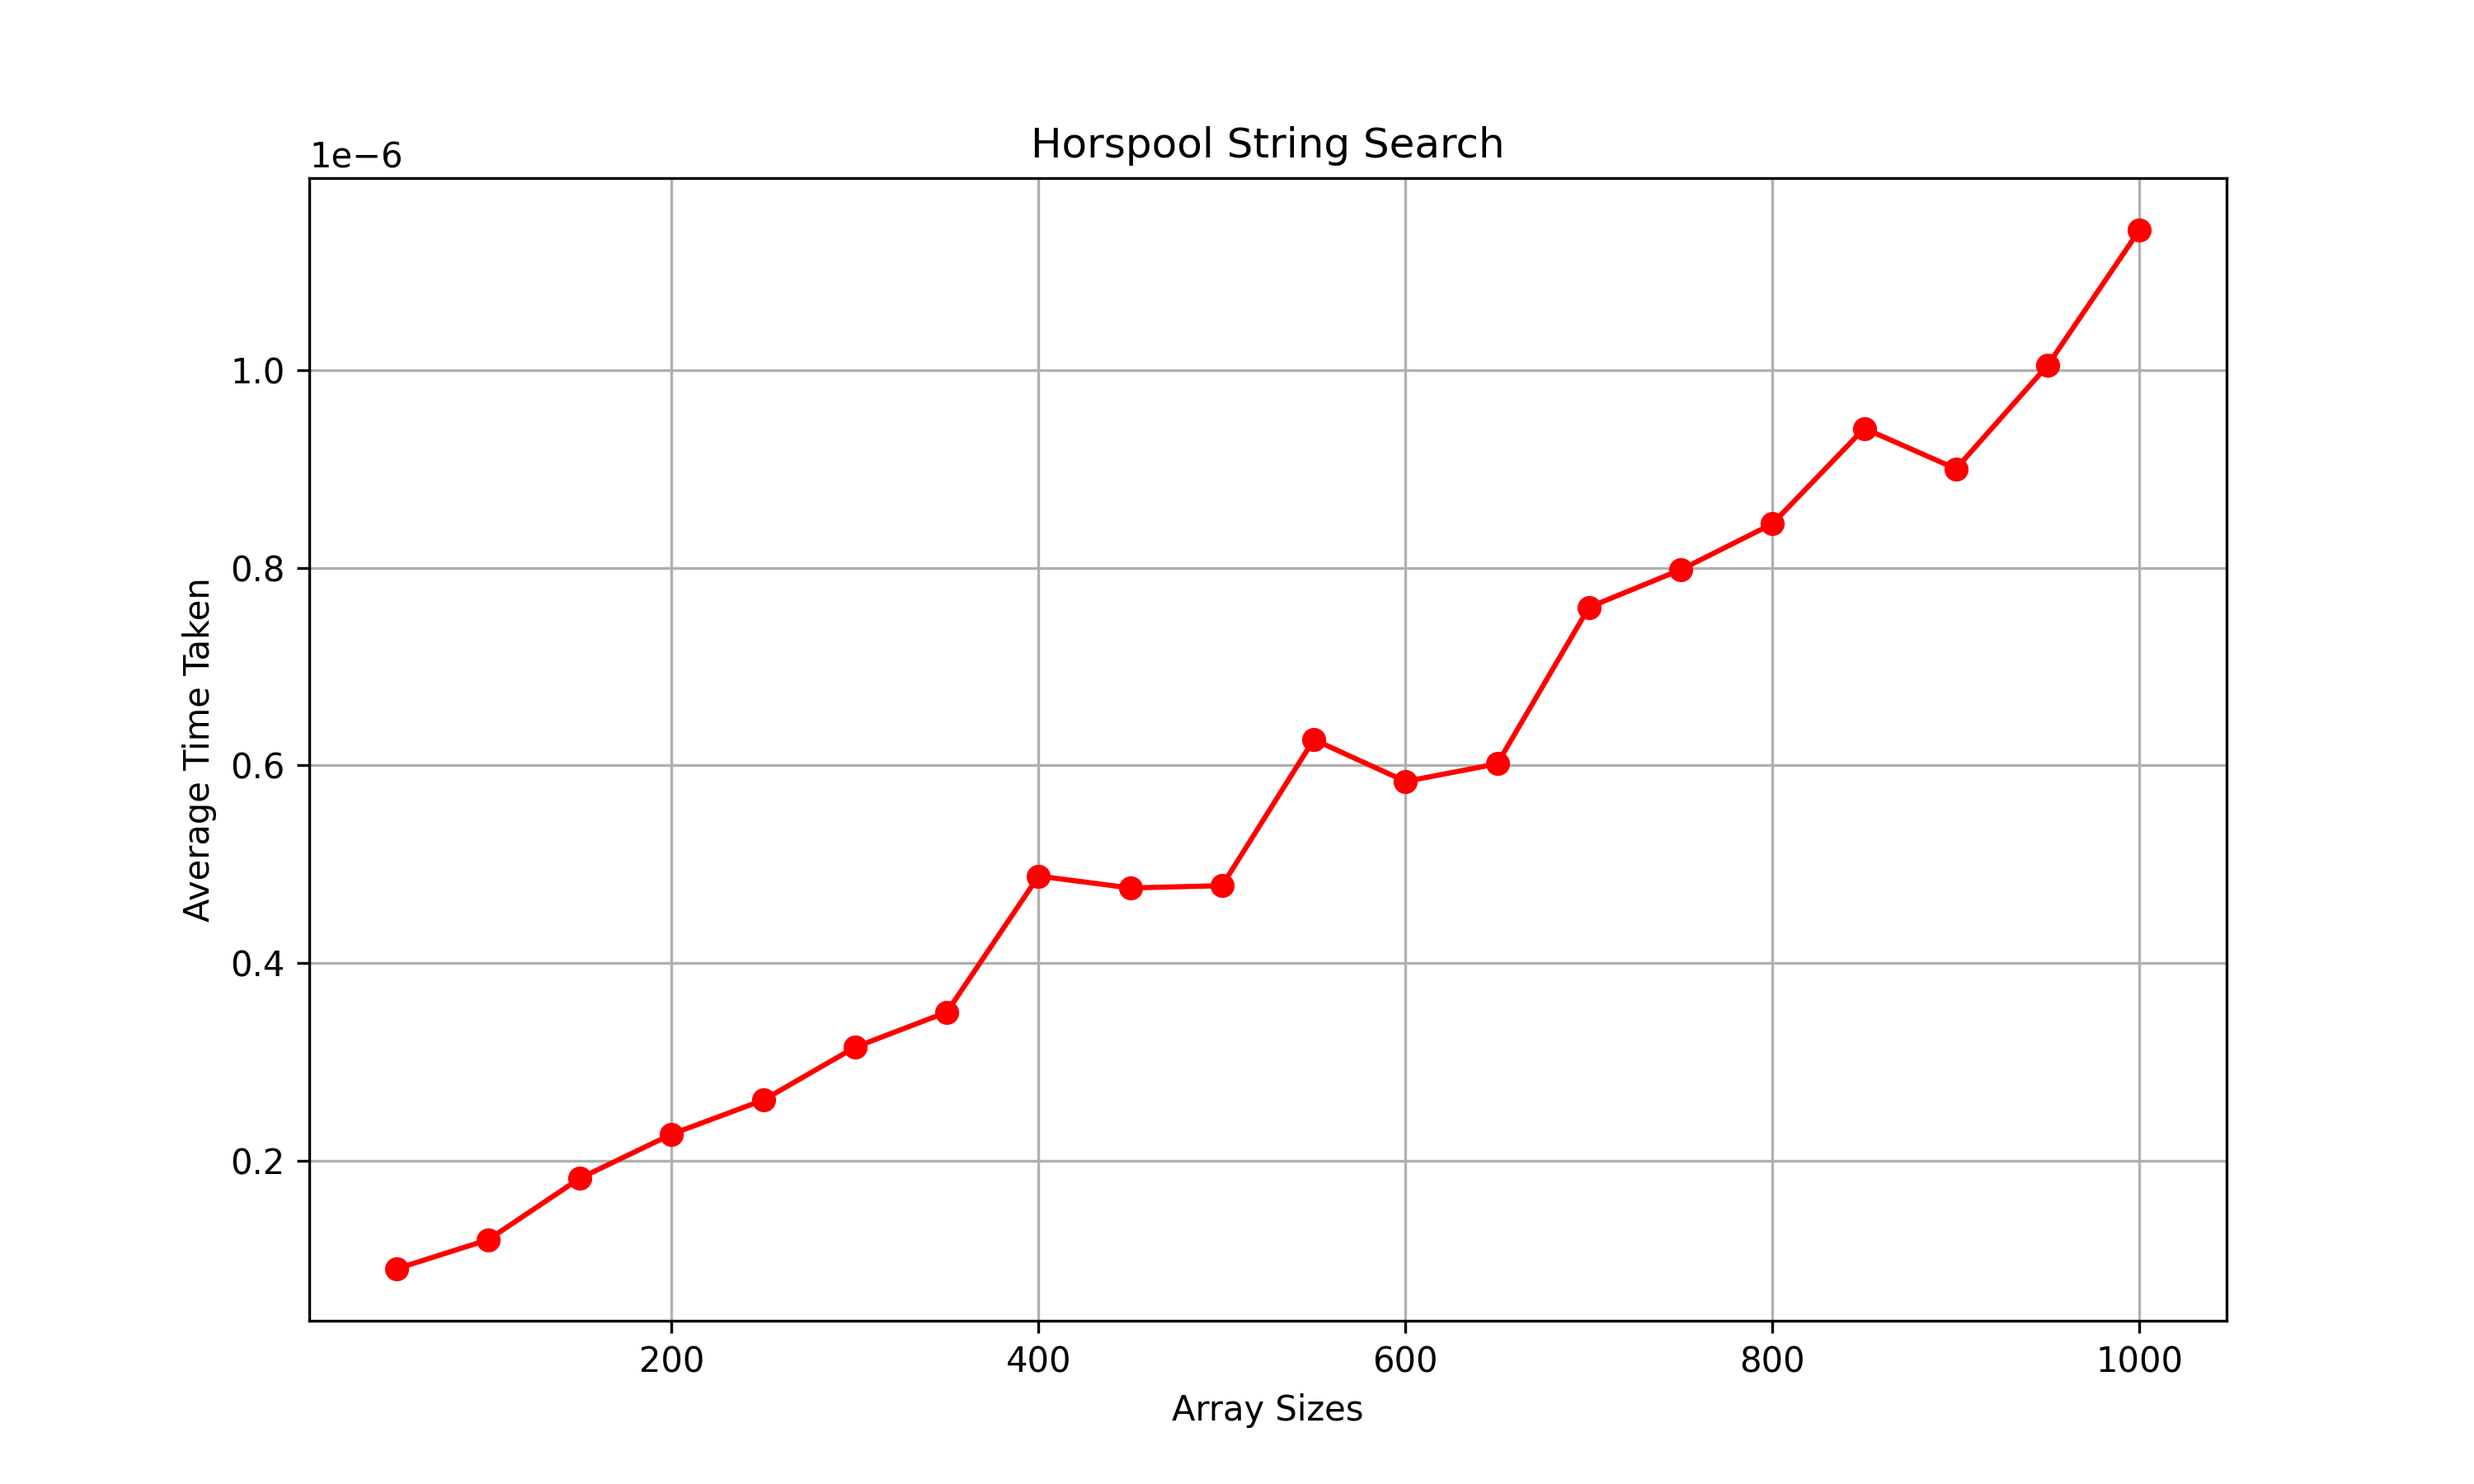
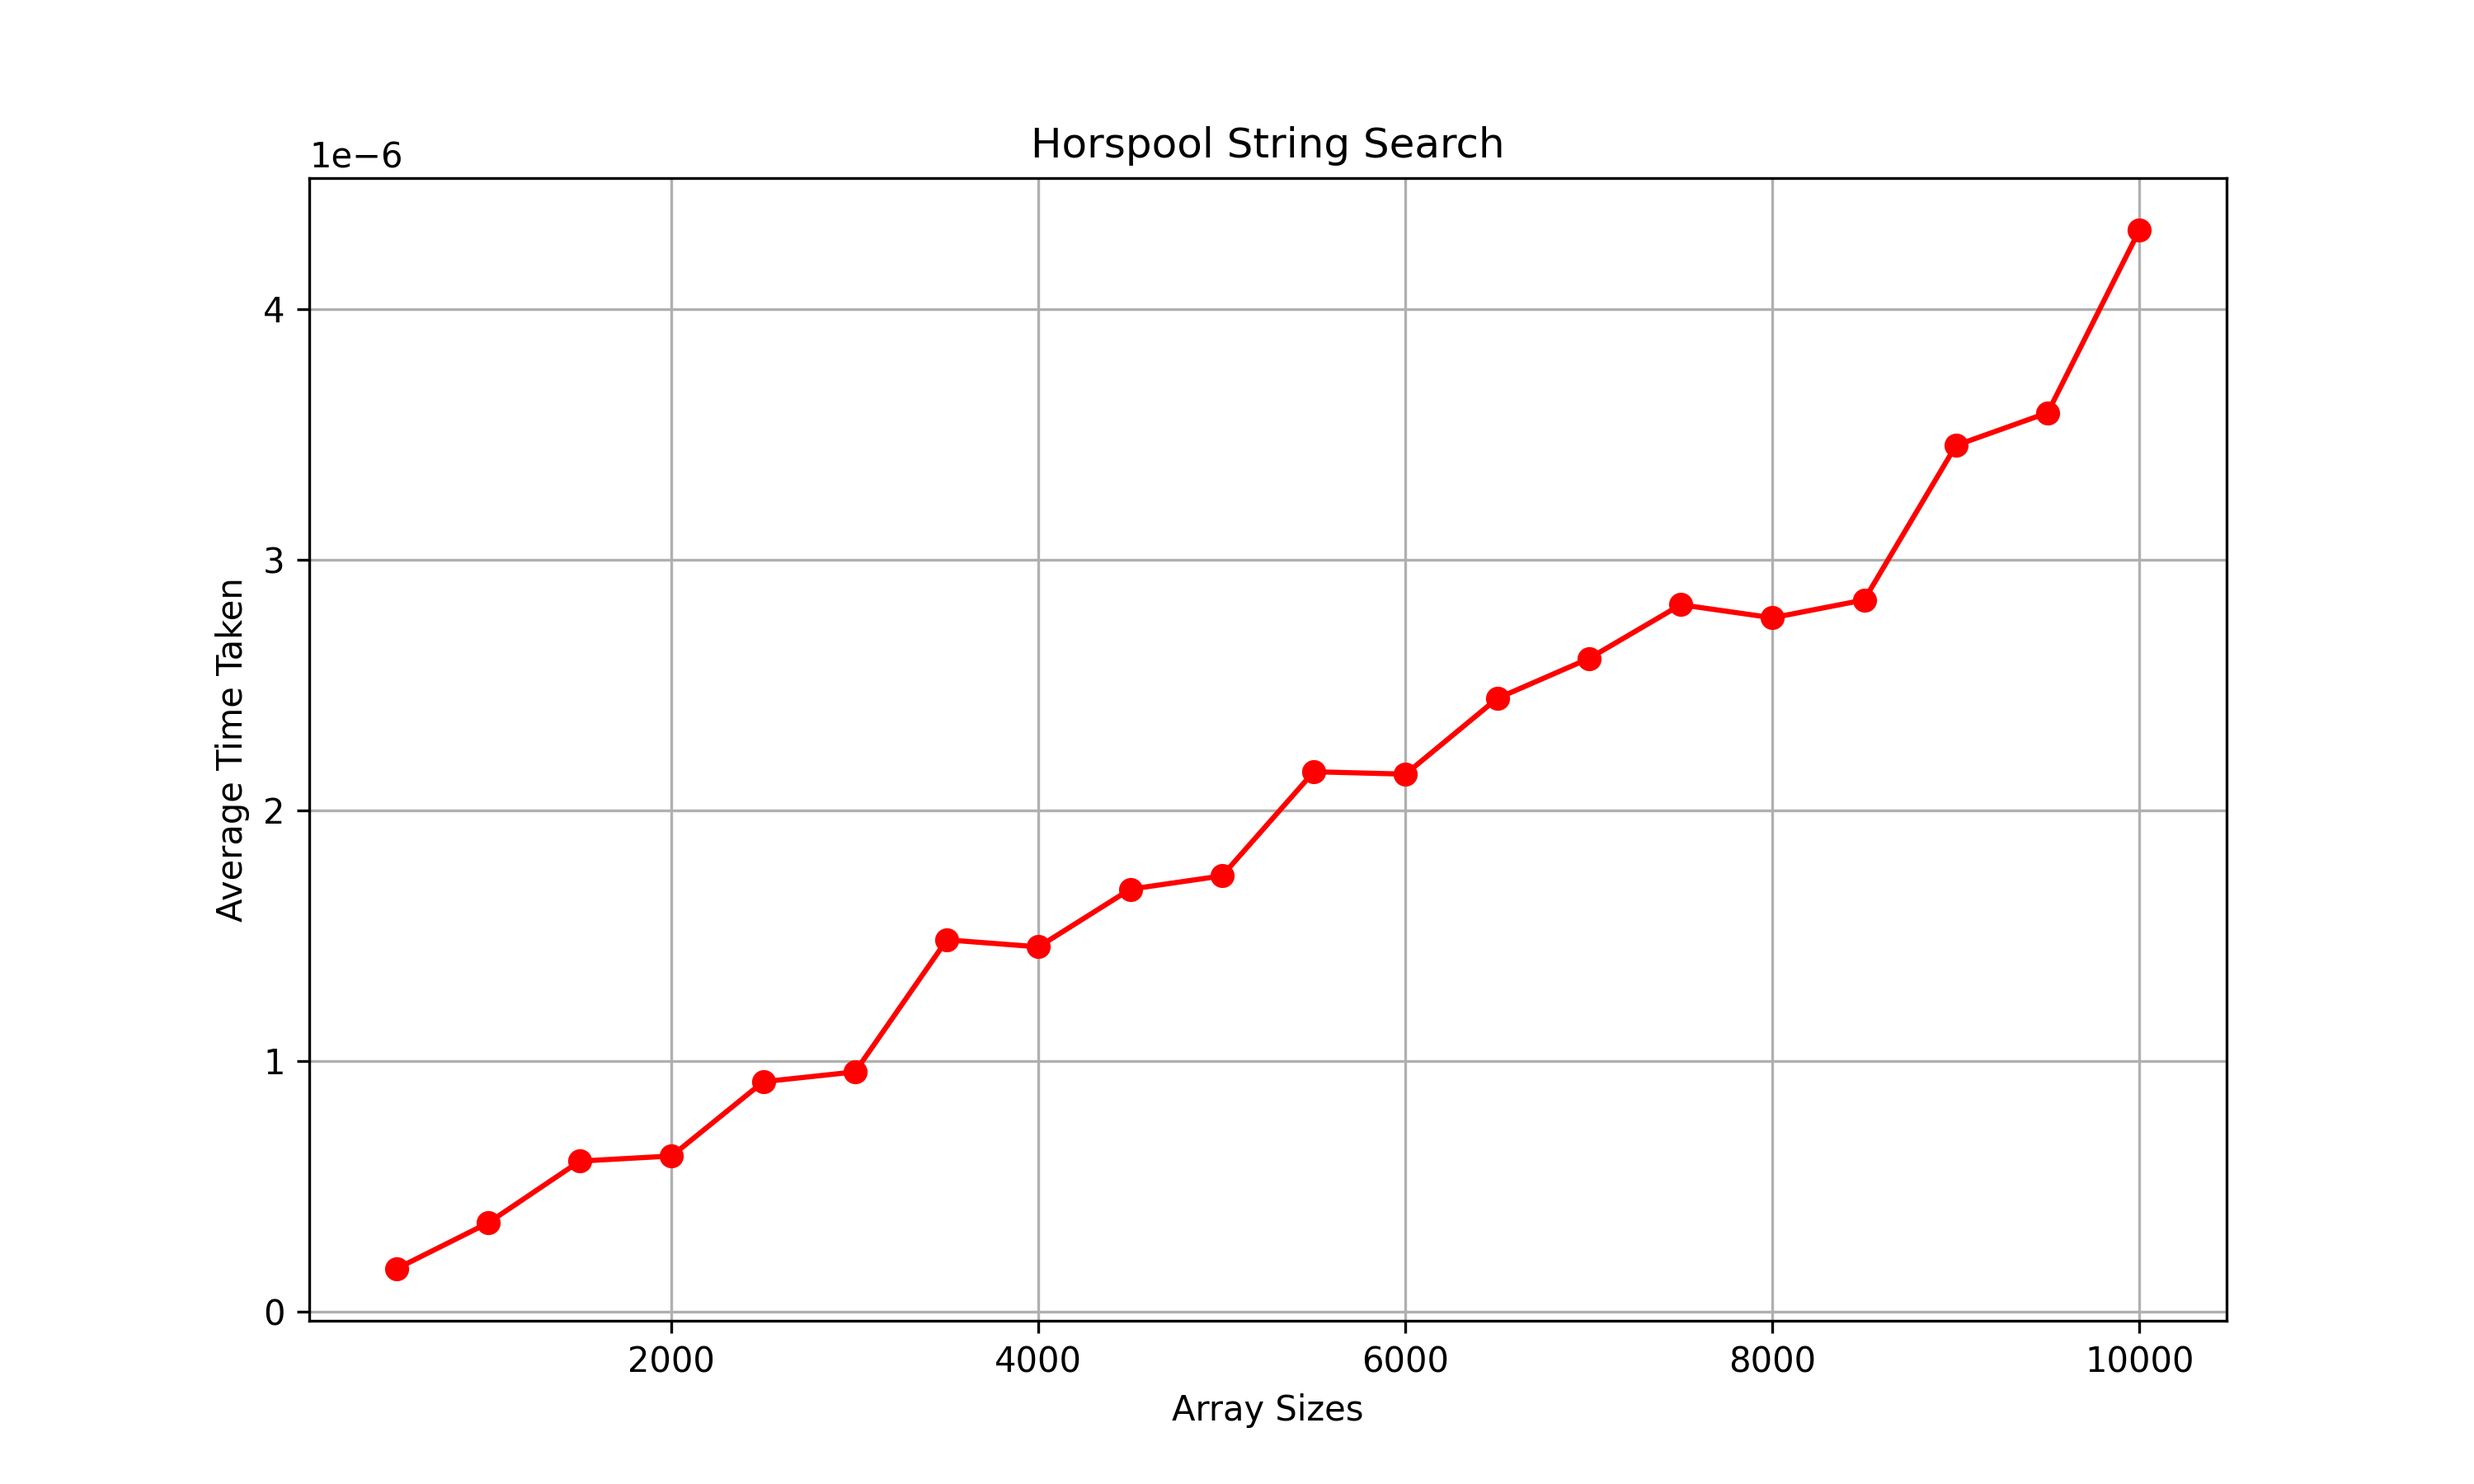
Kruskal graph added

diff --git a/kruskal/evaluate.py b/kruskal/evaluate.py
@@ -1,0 +1,54 @@
+import random
+from kruskal import kruskal
+import time
+import matplotlib.pyplot as plt
+import numpy as np
+
+def generate_adjacency_matrix(n: int, k: int, p: float, min_weight=1, max_weight=10):
+    adj_matrix = np.zeros((n, n), dtype=int)
+    for i in range(n):
+        for j in range(1, k // 2 + 1):
+            adj_matrix[i, (i + j) % n] = random.randint(min_weight, max_weight)
+            adj_matrix[i, (i - j) % n] = random.randint(min_weight, max_weight)
+    
+    for i in range(n):
+        for j in range(i + 1, n):
+            if adj_matrix[i, j] != 0:
+                if random.random() < p:
+                    new_j = random.choice(list(set(range(n)) - set([i, j])))
+                    adj_matrix[i, j] = adj_matrix[j, i] = 0
+                    adj_matrix[i, new_j] = adj_matrix[new_j, i] = random.randint(min_weight, max_weight)
+    
+    return adj_matrix
+
+def get_mean_times(func, sizes=list(range(5, 105, 5)), iterations=200):
+    mean_times = []
+    for size in sizes:
+        total_time = 0.0
+        k = min(4, size - 1)
+        p = 0.1
+        for _ in range(iterations):
+            mat = generate_adjacency_matrix(size, k, p)
+            start = time.perf_counter()
+            func(mat)
+            end = time.perf_counter()
+            total_time += (end - start)
+        mean_times.append(total_time / iterations)
+    return mean_times
+
+def plot(algo_name: str, param_list: list[float], sizes: list[int] = list(range(5, 105, 5))):
+    plt.figure(figsize=(10, 6))
+    plt.grid(visible=True)
+    plt.title(algo_name)
+    plt.xlabel('Matrix Orders')
+    plt.ylabel('Average Time Taken')
+    plt.plot(sizes, param_list, marker="o", color="blue")
+    plt.savefig(f'{algo_name}.png', dpi=300)
+    plt.show()
+
+def main():
+    mean_times = get_mean_times(kruskal)
+    plot("Kruskal", mean_times)
+
+if __name__ == "__main__":
+    main()

diff --git a/knapsack/evaluate.py b/knapsack/evaluate.py
@@ -1,0 +1,50 @@
+import time
+import matplotlib.pyplot as plt
+from knapsack import knapsack
+import random
+
+def generate_knapsack_problem(num_items, weight_range=(1, 100), profit_range=(1, 100)):
+    weights = []
+    profits = []
+    total_weight = 0
+    
+    for _ in range(num_items):
+        weight = random.randint(*weight_range)
+        profit = random.randint(*profit_range)
+        weights.append(weight)
+        profits.append(profit)
+        total_weight += weight
+
+    capacity = int(total_weight * 0.5)
+    
+    return profits, weights, capacity
+
+def get_mean_time(func: callable, sizes: list[int] = list(range(5, 105, 5)), iterations: int = 20) -> list[float]:
+    mean_times = []
+    for size in sizes:
+        total_time = 0.0
+        profits, weights, capacity = generate_knapsack_problem(size)
+        for i in range(iterations):
+            start = time.perf_counter()
+            func(profits, weights, capacity)
+            end = time.perf_counter()
+            total_time = (end - start)
+        mean_times.append(total_time / iterations)
+    return mean_times
+
+def plot(algo_name: str, param_list: list[float], sizes: list[int] = list(range(5, 105, 5))):
+    plt.figure(figsize=(10, 6))
+    plt.grid(visible=True)
+    plt.title(algo_name)
+    plt.xlabel('Array Sizes')
+    plt.ylabel('Average Time Taken')
+    plt.plot(sizes, param_list, marker="o", color="red")
+    plt.savefig(f'{algo_name}.png', dpi = 300)
+    plt.show()
+
+def main():
+    knapsack_mean_times = get_mean_time(knapsack)
+    plot("Knapsack Problem", knapsack_mean_times)
+
+if __name__ == "__main__":
+    main()

diff --git a/horspool/evaluate.py b/horspool/evaluate.py
@@ -8,12 +8,13 @@ def generate_random_string_and_pattern(size: int) -> (str, str):
     for i in range(size):
         string.append(str(random.randint(0, 128)))
     string = "".join(string)
-    m = len(string) // 5
-    pattern = string[-5:]
-
+    pattern = []
+    for i in range(size // 3):
+        pattern.append(str(random.randint(0, 128)))
+    pattern = "".join(pattern)
     return pattern, string
 
-def get_mean_time(search_func: callable, sizes: list[int] = list(range(50, 1050, 50)), iterations: int = 100) -> list[float]:
+def get_mean_time(search_func: callable, sizes: list[int] = list(range(500, 10500, 500)), iterations: int = 300) -> list[float]:
     mean_times = []
     for size in sizes:
         total_time = 0.0
@@ -26,7 +27,7 @@ def get_mean_time(search_func: callable, sizes: list[int] = list(range(50, 1050,
         mean_times.append(total_time / iterations)
     return mean_times
 
-def plot(algo_name: str, param_list: list[float], sizes: list[int] = list(range(50, 1050, 50))):
+def plot(algo_name: str, param_list: list[float], sizes: list[int] = list(range(500, 10500, 500))):
     plt.figure(figsize=(10, 6))
     plt.grid(visible=True)
     plt.title(algo_name)

diff --git a/kruskal/kruskal.py b/kruskal/kruskal.py
@@ -1,0 +1,46 @@
+def kruskal(graph):
+    def find(parent, i):
+        if parent[i] == i:
+            return i
+        return find(parent, parent[i])
+
+    def union(parent, rank, x, y):
+        xroot = find(parent, x)
+        yroot = find(parent, y)
+
+        if rank[xroot] < rank[yroot]:
+            parent[xroot] = yroot
+        elif rank[xroot] > rank[yroot]:
+            parent[yroot] = xroot
+        else:
+            parent[yroot] = xroot
+            rank[xroot] += 1
+
+    edges = []
+    for i in range(len(graph)):
+        for j in range(i+1, len(graph)):
+            if graph[i][j] != 0:
+                edges.append((i, j, graph[i][j]))
+
+    edges.sort(key=lambda x: x[2])
+
+    parent = list(range(len(graph)))
+    rank = [0] * len(graph)
+
+    result = []
+    i, e = 0, 0
+
+    while e < len(graph) - 1:
+        if i >= len(edges):
+            break
+        u, v, w = edges[i]
+        i += 1
+        x = find(parent, u)
+        y = find(parent, v)
+
+        if x != y:
+            e += 1
+            result.append((u, v, w))
+            union(parent, rank, x, y)
+
+    return result

diff --git a/matrix_even/evaluate.py b/matrix_even/evaluate.py
@@ -23,7 +23,7 @@ def get_mean_times(func: callable, sizes: list[int] = list(range(50, 1050, 50)),
         mean_times.append(total_time / iterations)
     return mean_times
 
-def plot(algo_name: str, param_list: list[float], sizes: list[int] = list(range(500, 10500, 500))):
+def plot(algo_name: str, param_list: list[float], sizes: list[int] = list(range(50, 1050, 50))):
     plt.figure(figsize=(10, 6))
     plt.grid(visible=True)
     plt.title(algo_name)

diff --git a/knapsack/knapsack.py b/knapsack/knapsack.py
@@ -11,5 +11,3 @@ def knapsack(p: list[int], w: list[int], W) -> int:
             else:
                 V[i][j] = V[i - 1][j]
     return V[n][W]
-
-print(knapsack([12, 10, 20, 15], [2, 1, 3, 2], 5))

diff --git a/README.md b/README.md
@@ -50,6 +50,26 @@ Give the trace of both algorithms. Find its time complexity.
 ![](warshall/Warshall%20Algorithm.png)
 ![](floyd/Floyd%20Algorithm.png)
 
+## Program 8:
+Given ‘N’ items with their weight and value. Also, a bag is given whose capacity is ‘W’. Write a C program based on dynamic programming design technique to find the subset of items that fit into the bag and earn maximum profit. Give the trace of this algorithm. Find its time complexity.
+
+![](knapsack/Knapsack%20Problem.png)
+
+## Program 9:
+Consider an electrical layout where ‘n’ houses are connected by electrical wires. Design a  program using Kruskal’s Algorithm to output a connection with minimum cost. Trace the algorithm. Find its time complexity.
+
+![](kruskal/Kruskal.png)
+
+## Program 10:
+Given a weighted connected graph of N cities, write a  program to find shortest paths from a given city to all other cities using Dijkstra's algorithm. Give the trace of this algorithm. Find its time complexity.
+
+![](dijkstra/Dijkstra.png)
+
+## Program 11:
+Write program to print all the nodes reachable from a given starting node in a digraph by using BFS method. Give the trace of this algorithm.
+
+![](bfs/)
+
 ## Program 12:
 A university is looking for engineering graduates, they need to sort the candidate‘s resume based on their ranking. Write a C program to sort the resumes by using heap sort. Determine the time required to sort the elements. Plot a graph of the number of elements versus time taken. Specify the time efficiency class of this algorithm.
 
